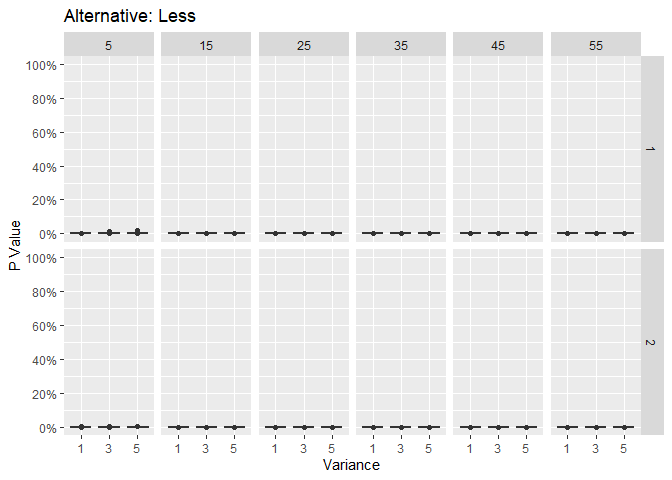
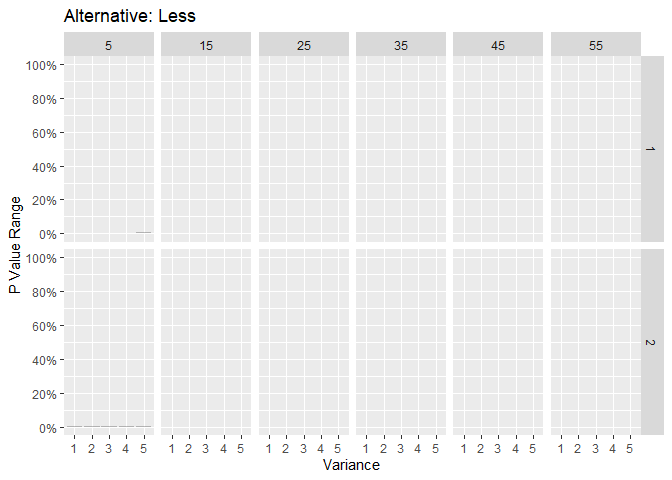
Update readme

diff --git a/README.md b/README.md
@@ -10,11 +10,11 @@ Further, the Bayesian does not have to pick. At any point, the Bayesian
 is free to pick the definition that is convenient and then change the
 selection later.
 
-For the second definition, the key work is *personal belief*. Given 10
+For the second definition, the key work is **personal belief**. Given 10
 Bayesians, it is realistic 10 different priors would be selected for a
 single experiment. Which prior is best? Under the Bayesian view point,
-all are equally valid because prior distributions quantify *personal
-belief*. The first Bayesian is under no requirement to have the same
+all are equally valid because prior distributions quantify **personal
+belief**. The first Bayesian is under no requirement to have the same
 opinion as the other 9 Bayesians.
 
 Considering prior distributions affect posterior distributions which
@@ -34,7 +34,7 @@ few decision rules include:
   family as the prior distribution.
 - [emprical
   priors](https://en.wikipedia.org/wiki/Empirical_Bayes_method) where
-  the prior distribution’s parameters are selected based of data.
+  the prior distribution’s parameters are selected based on data.
 - [hierarchical
   prior](https://en.wikipedia.org/wiki/Bayesian_hierarchical_modeling)
   where the prior distribution’s parameters are given prior
@@ -47,26 +47,34 @@ few decision rules include:
 
 In this repo, four different hypothesis tests are considered.
 
-1.  Test mu when X is a Gaussian random variable.
-    1.  A Gaussian prior for the unknown mean.
-    2.  A. gamma prior for the unknown variance.
-2.  Test variance when X is a Gaussian random variable.
-    1.  A Gaussian prior for the unknown mean.
-    2.  A. gamma prior for the unknown variance.
-3.  Test lambda when X is a Poisson random variable.
-    1.  A gamma prior for lambda.
+1.  Test $\mu$ when X is a Gaussian random variable.
+    - A Gaussian prior for the unknown mean.
+    - A gamma prior for the unknown variance.
+2.  Test $\sigma^2$ when X is a Gaussian random variable.
+    - A Gaussian prior for the unknown mean.
+    - A gamma prior for the unknown variance.
+3.  Test $\lambda$ when X is a Poisson random variable.
+    - A gamma prior for $\lambda$.
 4.  Test p when X is a Bernoulli random variable.
-    1.  A beta prior for p.
+    - A beta prior for p.
 
 The main question answered is “While controlling data, what is the range
 of p values possible if only the prior is changing?”
 
 # Results
 
-In the following graphs, data is the same within each panel. There are 6
-total sample sizes (5, 15, 25, 35, 45, 55) and two seeds used for
-creating data (1 and 2). Within a panel, only the prior’s parameters are
-changing.
+In the following graphs, there are 6 total sample sizes (5, 15, 25, 35,
+45, 55) and two seeds (1 and 2) used for creating two random samples.
+Within a panel, only the parameters are changing. Within each column of
+a panel, only the prior’s parameters are changing. The posterior’s
+parameter is the the x-axis.
+
+P value range interpretations:
+
+- A value of 0 means prior’s parameters have no effect on p value
+  calculations. All p values are the exact same.
+- A value of 1 means any p value is possible by simply changing the
+  personal belief and the prior’s parameters.
 
 ### Testing the mean of a Gaussian random variable.
 
@@ -78,20 +86,32 @@ For N equal to 5, the prior selection is a major factor.
 ### Testing the variance of a Gaussian random variable.
 
 The p values are not sensitive to selection of the prior distribution’s
-parameters.
+parameters when testing the variance.
 
 <img src="man/figures/README-resultsTwo-1.png" width="100%" /><img src="man/figures/README-resultsTwo-2.png" width="100%" />
 
 ### Testing lambda of a Poisson random variable.
 
-For this test, the range of p values drastically increase. Even for a
-sample size of 55, the range stays large.
+For this test, the range of p values drastically increased. Even for a
+sample size of 55, the range stays large. Different data sets have
+different ranges.
 
 <img src="man/figures/README-resultsThree-1.png" width="100%" /><img src="man/figures/README-resultsThree-2.png" width="100%" />
 
 ### Testing p of a Bernoulli random variable.
 
-Similar to the Poisson test, the range of p values very large. Even for
-a sample size of 55, the range stays large.
+Similar to the Poisson test, the range of p values is very large. Even
+for a sample size of 55, the range stays large. Different data sets have
+different ranges.
 
 <img src="man/figures/README-resultsFour-1.png" width="100%" /><img src="man/figures/README-resultsFour-2.png" width="100%" />
+
+### Main Take Aways
+
+- For tests about a Gaussian random variable, changes in the conjugate
+  prior did not have major affects of p value calculations.
+- For tests about a Poisson random variable, the prior distribution had
+  a great deal of influence.
+- For tests about a Bernoulli random variable, the prior distribution
+  had a great deal of influence as well.
+- The amount of influence changes from random sample to random sample.
